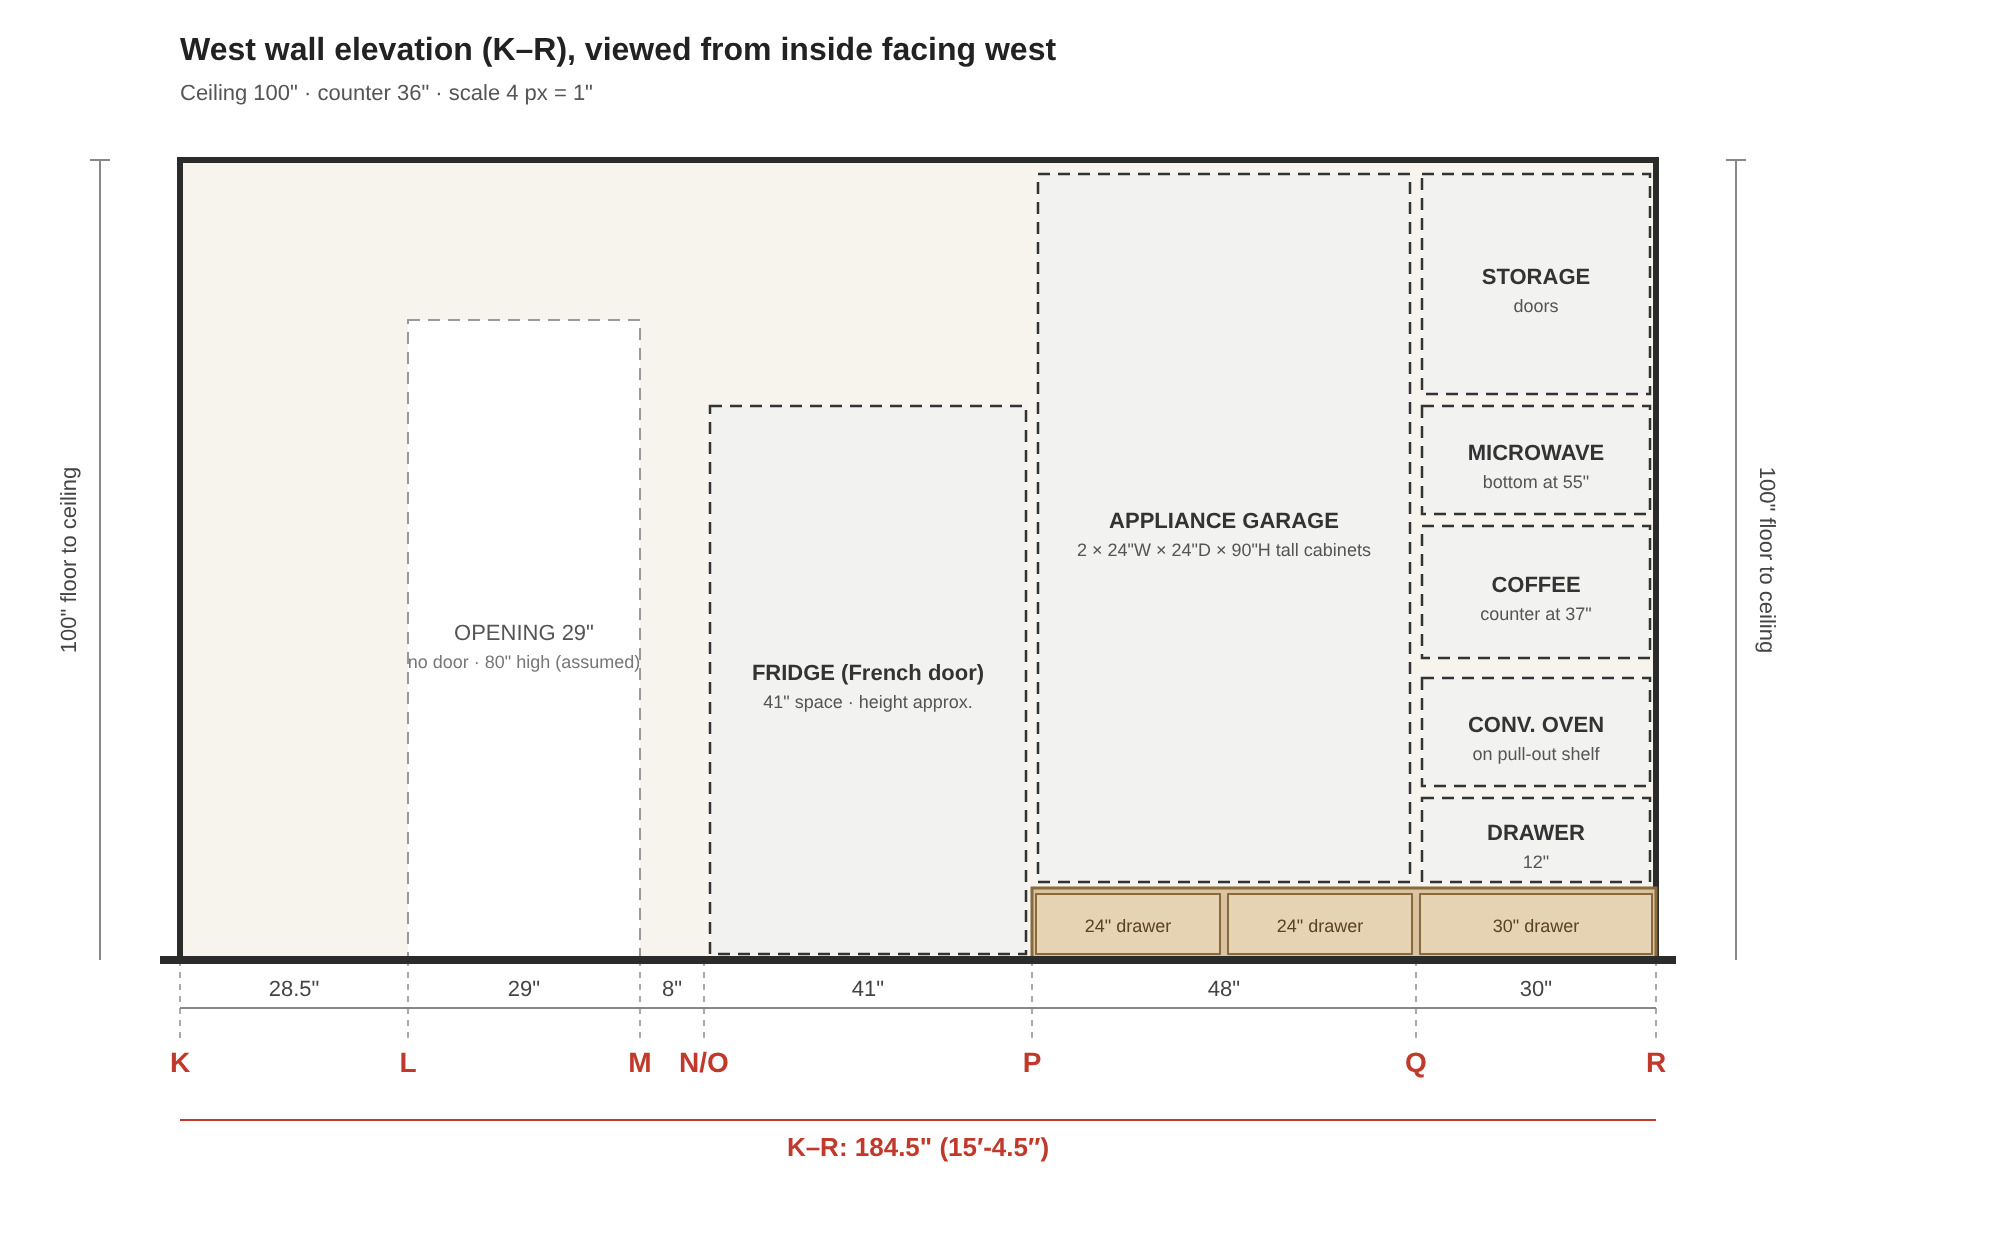
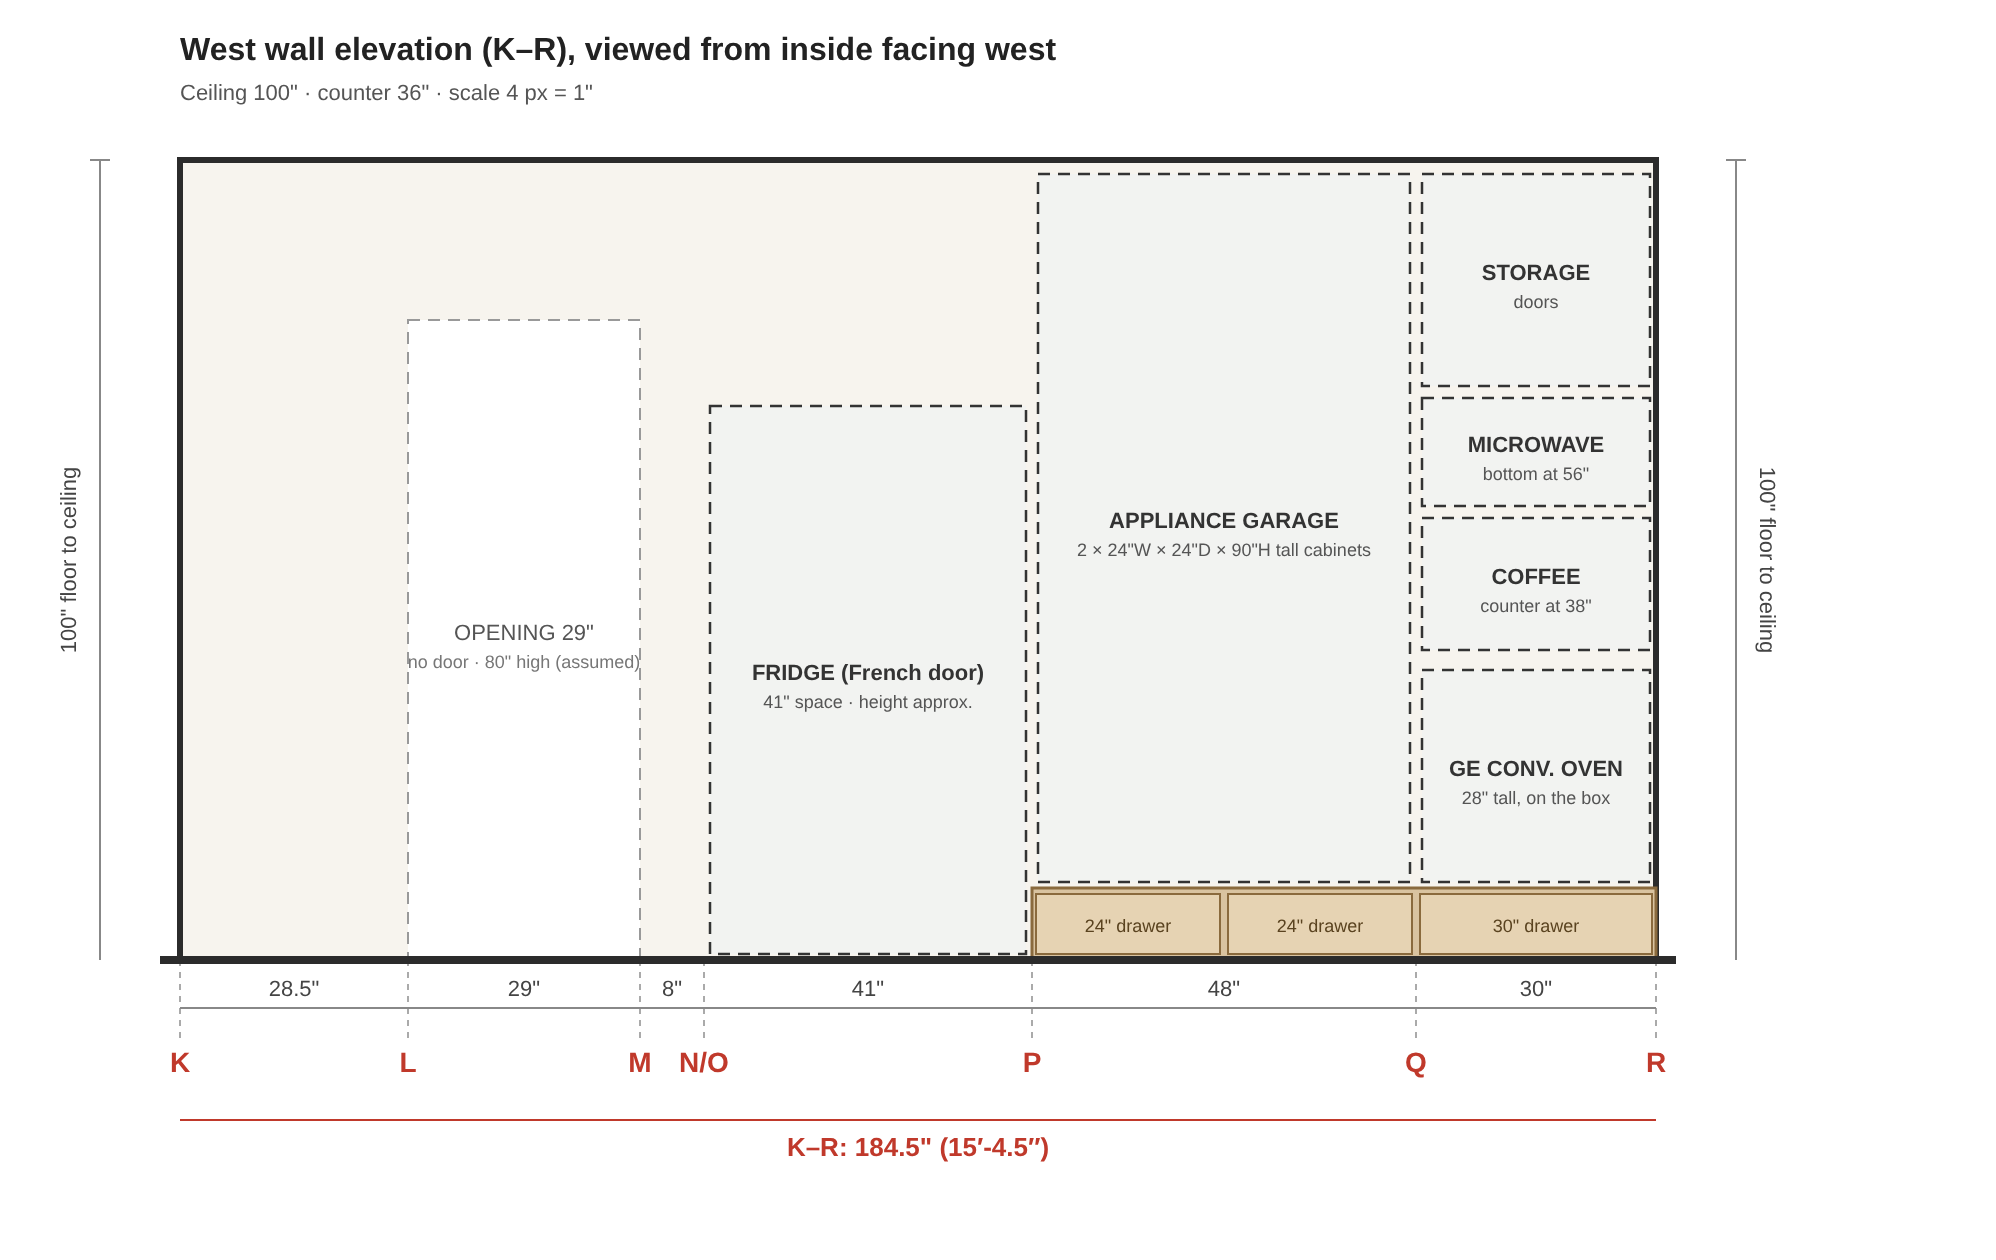
West elevation: 28in GE oven sits directly on the box; no drawer below
Claude-Session: https://claude.ai/code/session_01N1gJVqnW36KpNULQpj6QJQ

Changed region(s): [[0.7144, 0.3095, 0.8387, 0.7119], [0.7455, 0.1857, 0.8076, 0.2476]]

diff --git a/floorplans/build_floorplan.py b/floorplans/build_floorplan.py
@@ -399,12 +399,11 @@ ELEVATIONS = [
       "openings": {"M": 80},  # opening height assumed
       "zones": [("O", "P", 0, 70, "FRIDGE (French door)", '41" space · height approx.'),
                 ("P", "Q", 9, 99, "APPLIANCE GARAGE", "2 × 24\"W × 24\"D × 90\"H tall cabinets"),
-                ("Q", "R", 9, 21, "DRAWER", "12\""),
-                ("Q", "R", 21, 36, "CONV. OVEN", "on pull-out shelf"),
-                ("Q", "R", 36, 37, "", ""),
-                ("Q", "R", 37, 55, "COFFEE", "counter at 37\""),
-                ("Q", "R", 55, 70, "MICROWAVE", "bottom at 55\""),
-                ("Q", "R", 70, 99, "STORAGE", "doors")]}),]
+                ("Q", "R", 9, 37, "GE CONV. OVEN", "28\" tall, on the box"),
+                ("Q", "R", 37, 38, "", ""),
+                ("Q", "R", 38, 56, "COFFEE", "counter at 38\""),
+                ("Q", "R", 56, 71, "MICROWAVE", "bottom at 56\""),
+                ("Q", "R", 71, 99, "STORAGE", "doors")]}),]
 
 
 def build_elevation(filename, title, labels, ceil0, ceil1, opts=None):
